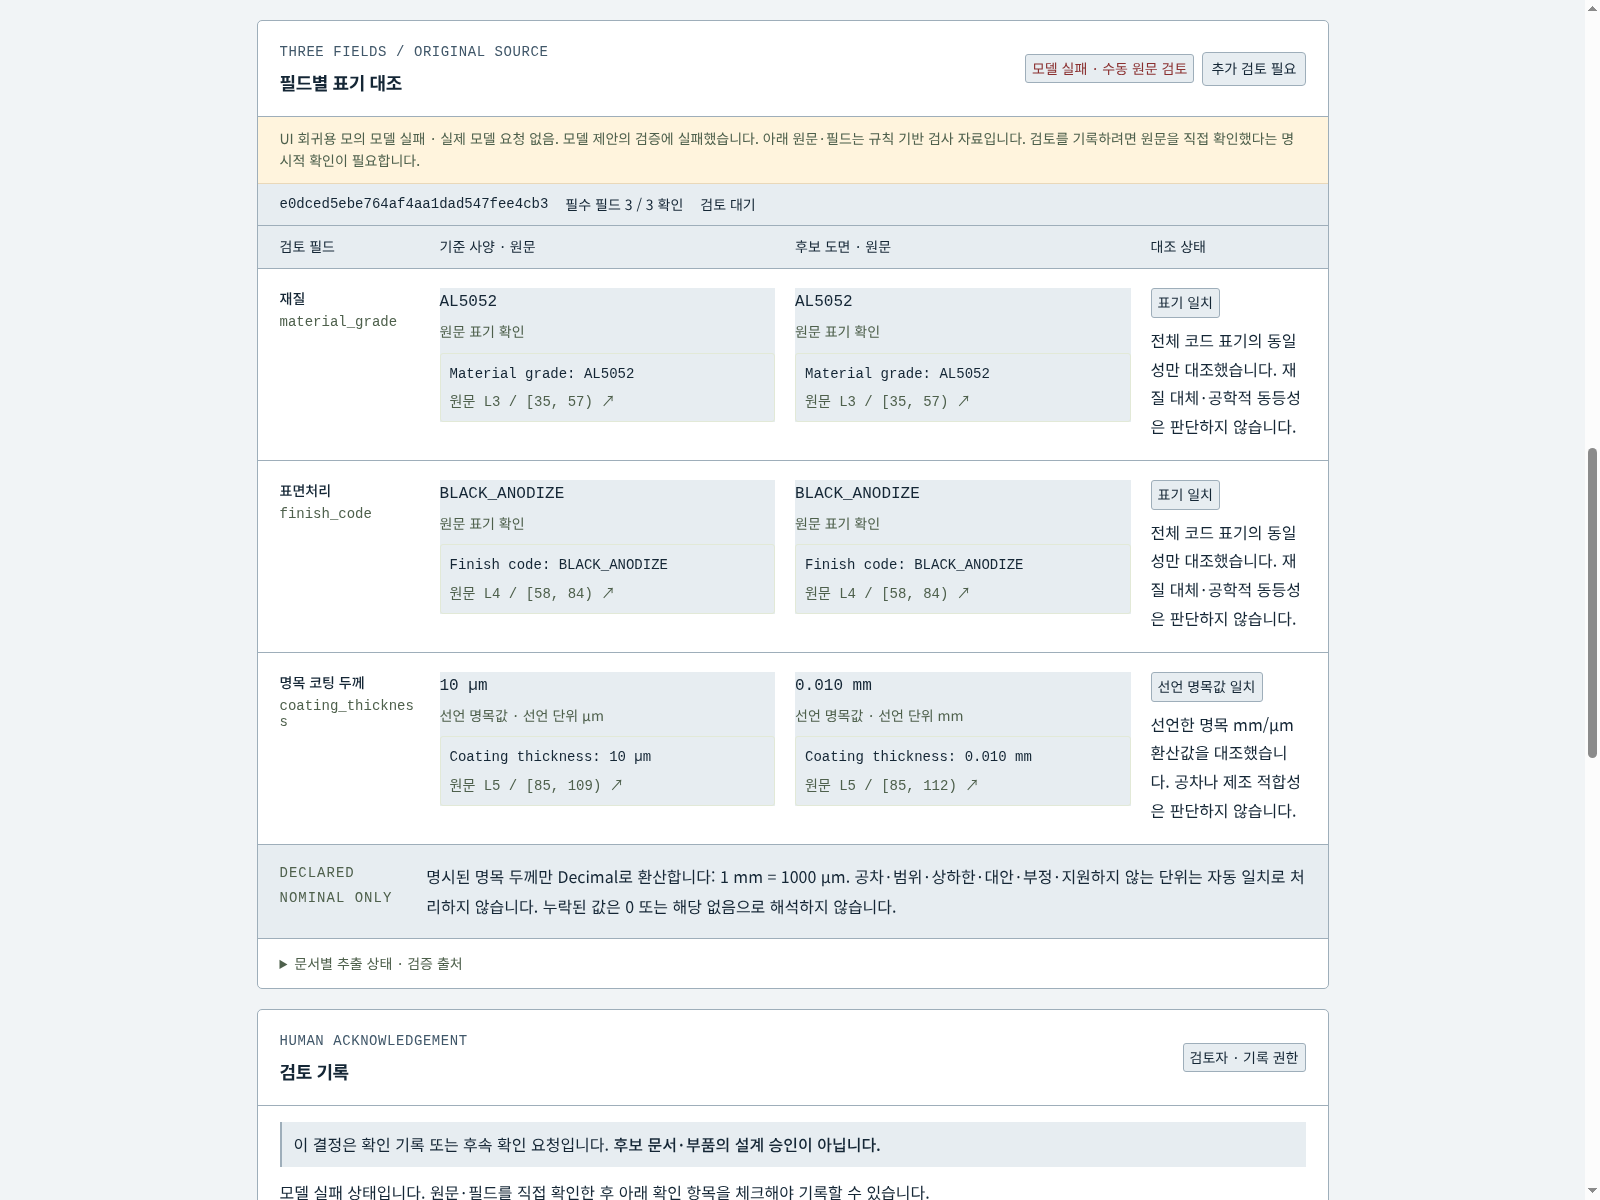
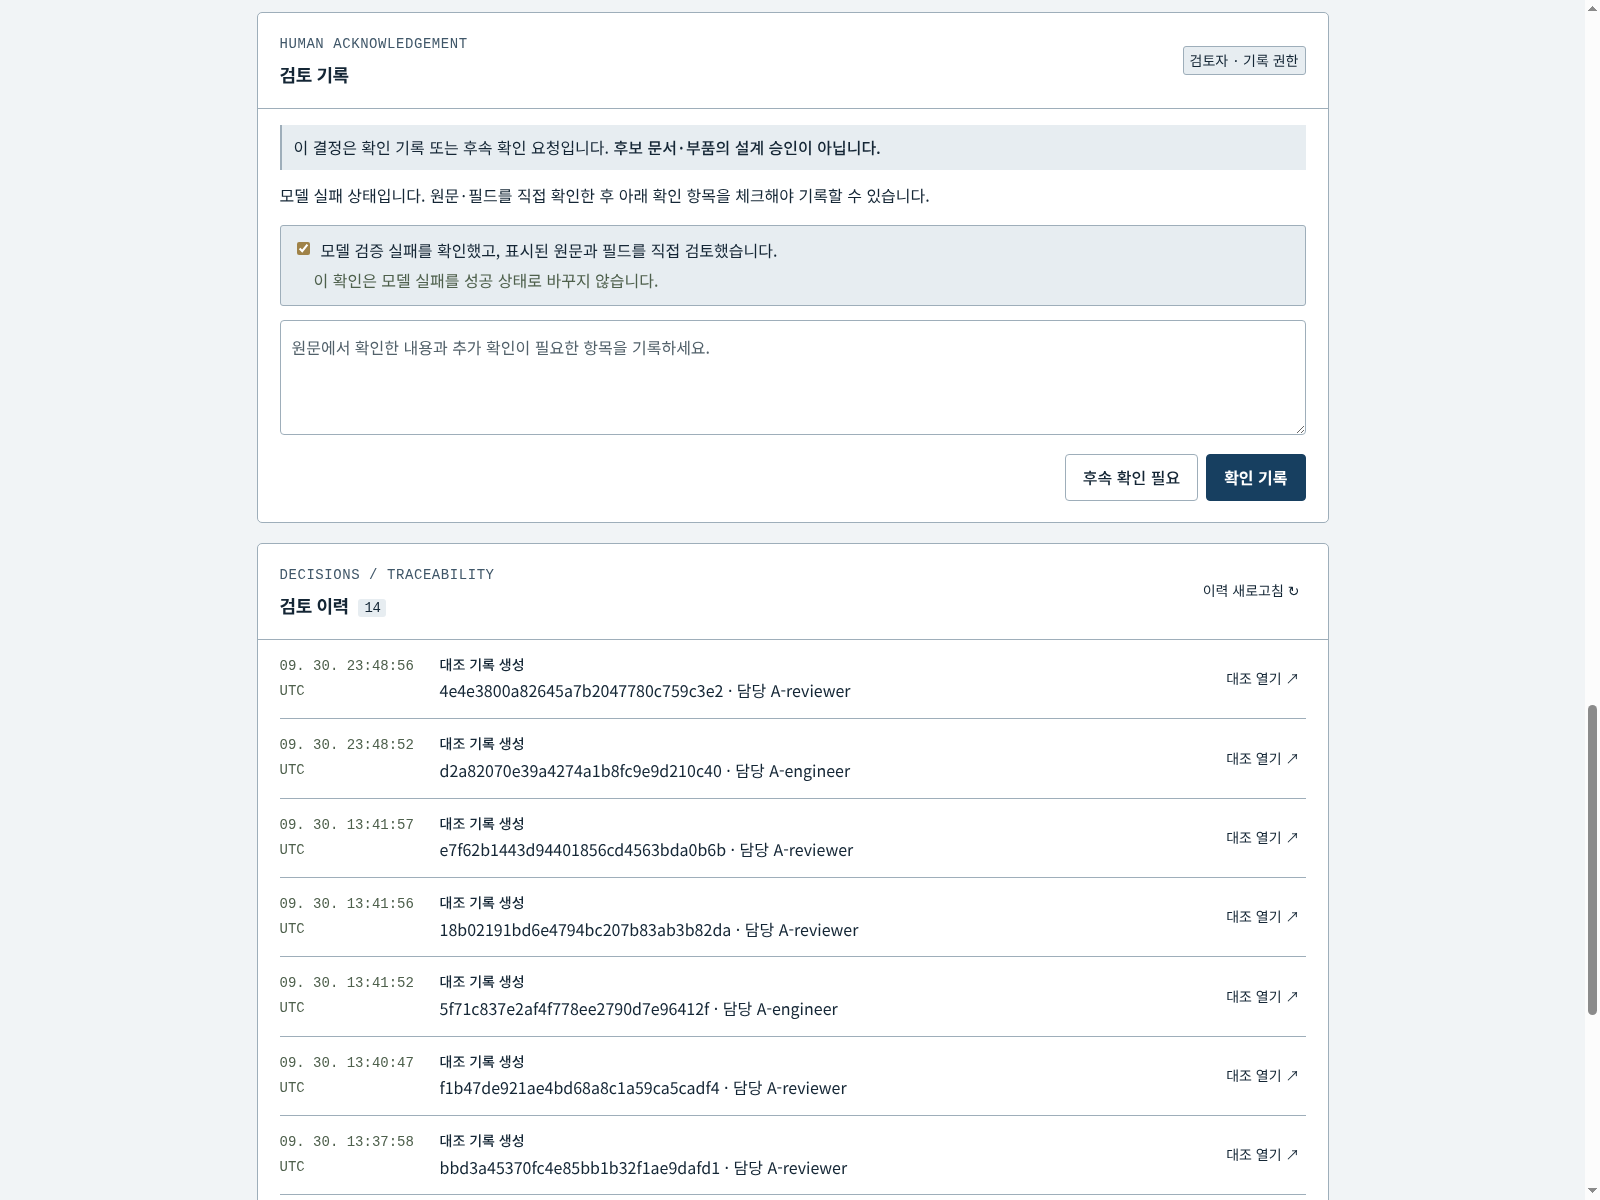
Frame P02 evidence and manual review screenshots fully

diff --git a/scripts/refit_capture.py b/scripts/refit_capture.py
@@ -1,5 +1,6 @@
-"""Isolated actual Chrome capture for the P02 visual refit; baseline only."""
+"""Isolated actual Chrome capture for the P02 visual refit; no new model calls."""
 import os
+import json
 import sqlite3
 import socket
 import subprocess
@@ -53,8 +54,25 @@ def main():
             ready(f"http://127.0.0.1:{DEBUG_PORT}/json/version")
             check.APP = f"http://127.0.0.1:{APP_PORT}"
             check.DEBUG = f"http://127.0.0.1:{DEBUG_PORT}"
-            sys.argv = ["browser_check.py", "--output", "docs/demo/current"]
+            original_screenshot = check.screenshot
+
+            def feature_framing(browser, directory, filename, purpose, screenshots):
+                target = {
+                    "01-reference-candidate-provenance.png": ".source-grid",
+                    "06-mock-failure-manual-confirmation.png": "#review-section",
+                    "07-mobile-source-workspace.png": ".source-grid",
+                }.get(filename)
+                if target:
+                    browser.js("document.querySelector(" + json.dumps(target)
+                               + ").scrollIntoView({block:'start',behavior:'instant'});window.scrollBy(0,-12)")
+                return original_screenshot(browser, directory, filename, purpose, screenshots)
+
+            check.screenshot = feature_framing
+            capture_output = os.environ.get("P02_CAPTURE_OUTPUT", "docs/demo/current")
+            sys.argv = ["browser_check.py", "--output", capture_output]
             check.main()
+            if os.environ.get("P02_CAPTURE_ONLY_BASELINE") == "1":
+                return
             saved = [
                 ("9d70ece1ff694130bf0e09c8908e9a80", "P001", "A-reviewer", "failed", "08-real-model-failure-manual-review.png"),
                 ("69943ccbf20d4727af36569711b5950b", "P001", "A-reviewer", "source_verified", "09-stored-real-model-p001.png"),

diff --git a/docs/demo/current/README.md b/docs/demo/current/README.md
@@ -1,6 +1,6 @@
 # 현재 화면 갤러리 · P09 v2 시각 기준 적용
 
-원본 UI 코드를 실행한 Chrome의 실제 캡처입니다. 기준 사양과 후보 도면은 합성 문서입니다. 01–07은 규칙 기준선 또는 명시된 브라우저 응답 mock, 08–11은 기존 실제 모델 비교를 SQLite 복사본에서 GET으로 읽은 결과입니다. 이 재캡처 중 **새 모델 요청 0회**입니다.
+원본 UI 코드를 실행한 Chrome의 실제 캡처입니다. 기준 사양과 후보 도면은 합성 문서입니다. 01–07은 규칙 기준선 또는 명시된 브라우저 응답 mock, 08–11은 기존 실제 모델 비교를 SQLite 복사본에서 GET으로 읽은 결과입니다. 이 재캡처 중 **새 모델 요청 0회**입니다. 01·06·07은 설명하는 기능이 화면 안에 들어오도록 같은 브라우저 검사를 한 번 더 실행해 해당 PNG만 교체했습니다. [별도 재촬영 기록](framing-recapture.json)은 이 세 파일에만 적용되며 다른 이미지와 영상은 원래 촬영본입니다.
 
 [현재 영상](video/nota-workflow.mp4)은 Chrome screencast의 원본 프레임 순서와 획득 시간을 보존해 무음 MP4로 인코딩했습니다. [프레임·장면 manifest](video/native-frames.json), [인코딩 검증](video/probe.json), [전체 파일 SHA-256](checksums.sha256)을 함께 제공합니다. 재현 스크립트는 [scripts/refit_capture.py](../../../scripts/refit_capture.py)이며 격리된 loopback 19102/19112와 임시 SQLite 복사본을 사용합니다. 프로젝트 원본 저장 결과와 서버 설정은 바꾸지 않습니다.
 
@@ -11,7 +11,7 @@
 | [03 재질 차이](03-material-notation-difference.png) | SUS304 대 SUS304L | 규칙 기준선 |
 | [04 차이와 누락](04-finish-difference-missing-thickness.png) | ZN_NI 대 NI, 빈 두께 | 규칙 기준선 |
 | [05 검토·이력](05-followup-record-and-audit.png) | 후속 확인 기록과 중복 제출 차단 | 규칙 기준선 |
-| [06 모의 실패](06-mock-failure-manual-confirmation.png) | 수동 확인 체크 전 기록 금지 | 브라우저 응답 mock, 실제 모델 아님 |
+| [06 모의 실패](06-mock-failure-manual-confirmation.png) | 수동 확인 체크와 두 기록 버튼 표시; 체크 전 차단은 회귀 검사 | 브라우저 응답 mock, 실제 모델 아님 |
 | [07 모바일](07-mobile-source-workspace.png) | 390px 원문·선택 | 규칙 기준선 |
 | [08 실제 실패](08-real-model-failure-manual-review.png) | 저장된 과거 인용 오류 | 실제 모델 결과 GET |
 | [09 모델 P001](09-stored-real-model-p001.png) | 저장된 과거 명목 단위 추출 | 실제 모델 결과 GET |
